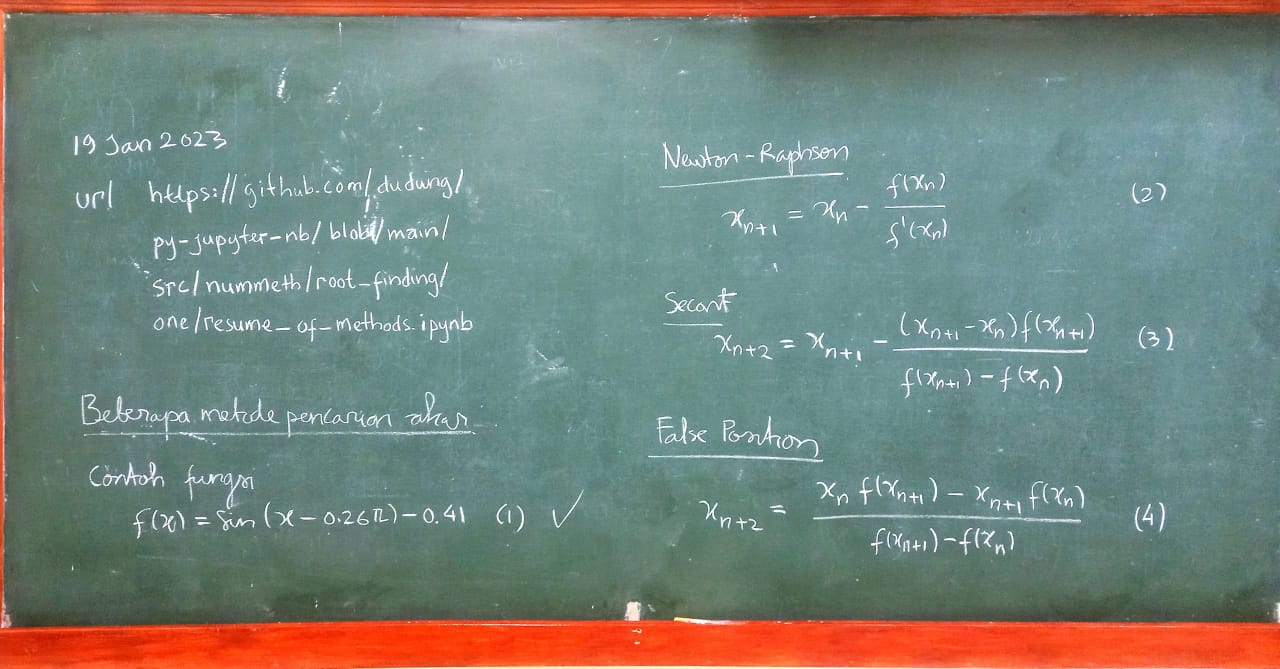
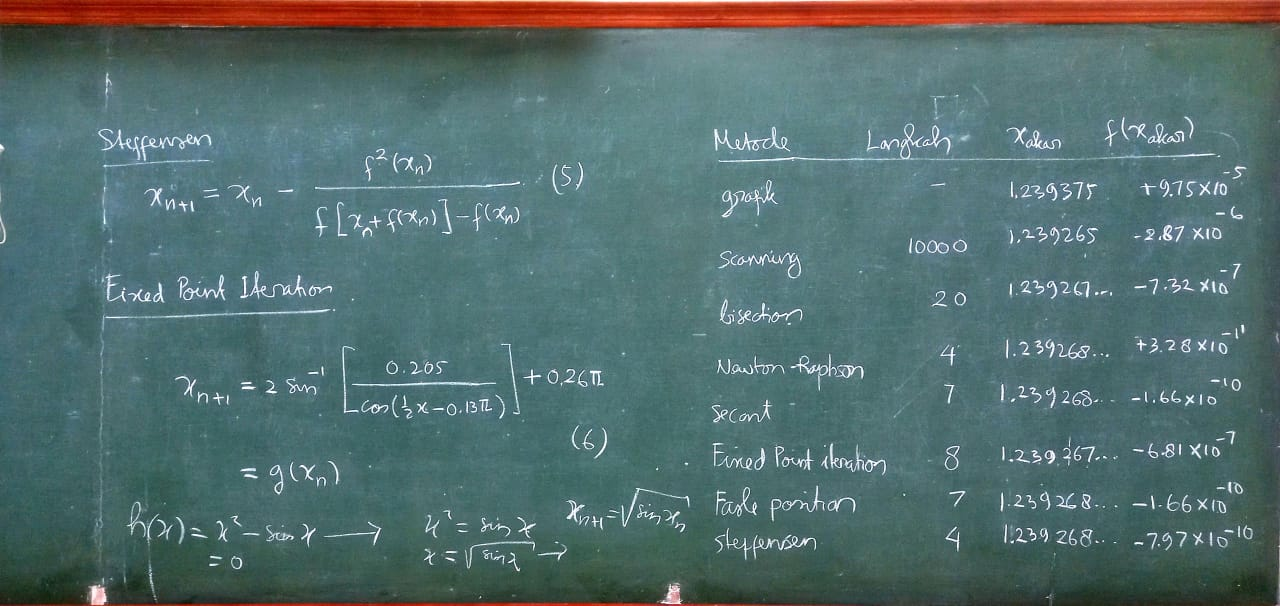
update yesterday information

diff --git a/note/01/README.md b/note/01/README.md
@@ -1,18 +1,20 @@
 # 01
 Notes between 16-20 January 2023 at [142516](https://edunex.itb.ac.id/courses/44705/preview/142516).
 
-
-
-## 17-jan-23
 - Information
   + Edunex at [62623](https://edunex.itb.ac.id/courses/44705/preview/142516/62623) and [63711](https://edunex.itb.ac.id/courses/44705/preview/142516/63711).
   + [Merging of class 01 and 02](20220117-5.jpg)
+  + Rooms
+    - 9225 at 1100-1240 for Tuesday (17 Jan)
+    - 9316 at 1100-1150 for Thursday (19 Jan)
 - Materials
   + [Course introduction](20220117-0.jpeg)
   + [Graphical method](20220117-1.jpeg)
   + [Root finding concept](20220117-2.jpeg)
   + [Some root finding methods](20220117-3.jpeg)
   + [Simple flowchart for root finding](20220117-4.jpeg)
+  + [Some iterative methods](20220119-0.jpeg)
+  + [Comparison of methods](20220119-1.jpeg)
 - Codes
   + [Root existence interval](https://github.com/dudung/py-jupyter-nb/blob/main/src/nummeth/root_finding/one/root_existence_interval.ipynb)
   + [Graphical method](https://github.com/dudung/py-jupyter-nb/blob/main/src/nummeth/root_finding/one/graphical_method.ipynb)
